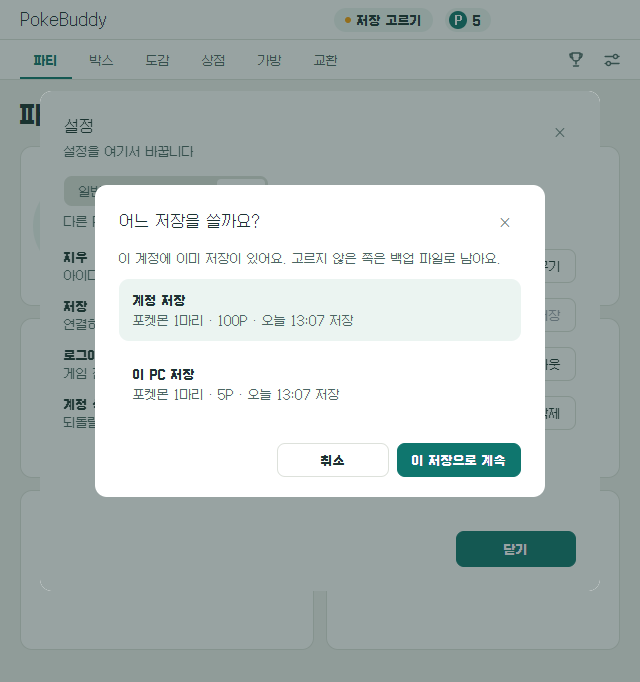
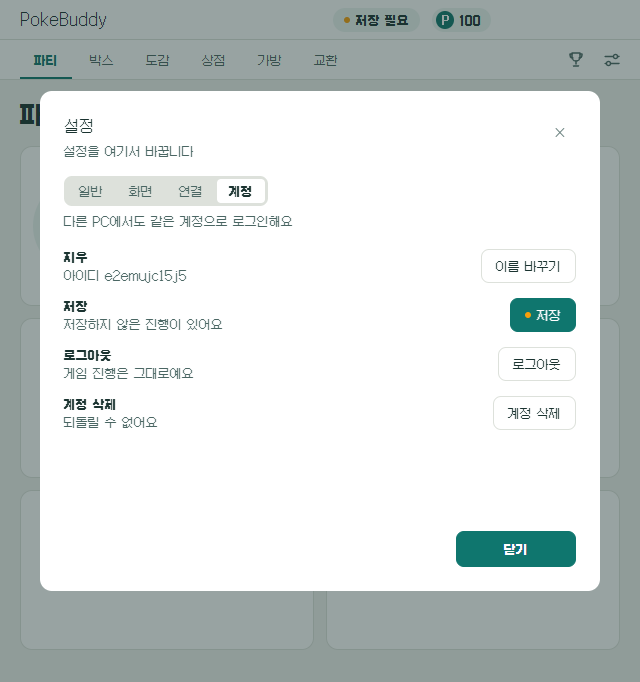
docs: [배포] v0.5.0 릴리스 기록과 최신 E2E 화면

diff --git a/docs/progress.md b/docs/progress.md
@@ -1,7 +1,7 @@
 # 현재 작업 현황
 
 갱신: 2026-09-27
-현재 구현: S5 새 게임 규칙·설정창 (저장 v3). 놀이공간·육성·상점·알·진화·업적·도감이 v3 로 돈다. Windows 설치 파일을 v0.4.0 까지 공개했다.
+현재 구현: S5 새 게임 규칙·설정창 (저장 v3). 놀이공간·육성·상점·알·진화·업적·도감이 v3 로 돈다. Windows 설치 파일을 v0.5.0 까지 공개했다.
 남은 일: 아래 [작업 후보](#작업-후보). 번호의 뜻: [번호 체계](terms.md#번호-체계)
 
 ## 먼저 읽을 문서
@@ -13,7 +13,7 @@
 
 ## 다른 세션에서 재개
 
-2026-09-27 기준: 앱은 저장 v3 로 구현돼 있고 v0.4.0 까지 배포했다. 여러 세션이 같은 작업 폴더에서 동시에 일한다.
+2026-09-27 기준: 앱은 저장 v3 로 구현돼 있고 v0.5.0 까지 배포했다. 여러 세션이 같은 작업 폴더에서 동시에 일한다.
 
 1. 이 문서의 [작업 후보](#작업-후보)에서 진행 중인 항목을 확인한다.
 2. `git status --short` 와 `git log --oneline -10` 으로 다른 세션의 미커밋 변경과 최근 커밋을 확인한다. 남의 미커밋 파일은 그 세션에 물은 뒤 손댄다.
@@ -48,7 +48,7 @@
 | 전체 설계 트리 | 전체 설계·문서 트리를 저장소와 Figma `0.1` 페이지(옛 06)에 작성했다. 2026-09-22 기준 그림이다. | [전체 설계 트리](#전체-설계-트리), [기록](work/s5-design-system-v2/plan.md#전체-설계-트리로-범위-정정) |
 | 화면 글꼴 | 2026-09-26 모든 창의 글꼴을 Galmuri로 바꿨다. 카드 선택 막대를 뺐다. Figma 페이지를 문서 `0.1`·`0.2`, `00`~`05`, 시안 `99`로 정리했다. | [화면 도트 스타일](work/ui-pixel-style/record.md) |
 | 문서 운영 | 현재 기준과 작업 기록을 분리했다. 작성 검수를 작업 절차에 추가했다. | [구조 정리](work/docs-organization/record.md) |
-| S6 배포 | 진행 중이다. 2026-09-26 v0.3.0, 2026-09-27 v0.3.1·v0.4.0(친구 교환) Windows 설치 파일을 GitHub Release 로 공개했다. 코드 서명과 mac 은 대기다. | [작업 후보 10](#작업-후보), 아래 플랫폼 확인 목록 |
+| S6 배포 | 진행 중이다. 2026-09-26 v0.3.0, 2026-09-27 v0.3.1·v0.4.0(친구 교환)·v0.5.0(계정·클라우드 저장) Windows 설치 파일을 GitHub Release 로 공개했다. 코드 서명과 mac 은 대기다. | [작업 후보 10](#작업-후보), 아래 플랫폼 확인 목록 |
 
 과거 검사 결과와 이번 재검수 결과는 각 기록에서 구분한다. 현재 창·명령 사용 방법은 [설명서](guide.md)를 따른다.
 마리별 크기는 저장한다. `pet.set size=3` 명령과 설정창 개체 상세의 크기 단추로 크기 단계 1~5 를 바꾼다(2026-09-25 구현, 2026-09-27 단계 변경 — [소리 크기와 그림 크기 단계](work/sound-size/record.md)).
@@ -92,7 +92,7 @@
 ## 전체 설계 트리
 
 2026-09-22 기준 프로젝트 전체 설계의 요약이다. 위 다음 행동 표를 설계 영역별로 펼친 그림이다. Figma 사본은 [0.1 · 전체 설계·문서 트리](https://www.figma.com/design/MA3K41Y6omAi5mRu6YDFly/pokebuddy?node-id=236-121) 페이지에 있다. 2026-09-26에 페이지 이름을 `06`에서 `0.1`로 바꿨다. 그림과 기준 문서가 다르면 [현재 설계](design.md)와 이 문서의 표를 따른다.
-이 트리를 그린 2026-09-22 당시 구현은 S4였다. 지금 상태는 이 문서 머리말을 따른다. S6 배포는 진행 중이다(v0.4.0). 초록은 사용자가 확정한 규칙이다. 노랑은 열린 결정이다. 회색은 사용자가 보류한 항목이다. 보라는 향후 확장이다.
+이 트리를 그린 2026-09-22 당시 구현은 S4였다. 지금 상태는 이 문서 머리말을 따른다. S6 배포는 진행 중이다(v0.5.0). 초록은 사용자가 확정한 규칙이다. 노랑은 열린 결정이다. 회색은 사용자가 보류한 항목이다. 보라는 향후 확장이다.
 
 ```mermaid
 flowchart LR

diff --git a/docs/history/2026-09.md b/docs/history/2026-09.md
@@ -2,6 +2,12 @@
 
 2026-09-21부터 기록 절차는 [문서 작업 절차](../contributing/workflow.md)를 따른다. 아래의 이전 절차 설명은 당시 기록이다.
 
+## 2026-09-27 — v0.5.0 공개
+
+- 범위: Windows 설치 파일 네 번째 공개. 계정과 클라우드 저장이 처음 들어갔다.
+- 결과: GitHub Release `v0.5.0`(태그 → `e3597e0`)에 `pokebuddy-Setup-0.5.0.exe`(107.6MB)를 올렸다.
+- 검수: 올리기 전 `npm run selftest`·`e2e-trade`(18)·`e2e-account`(9) 통과, 커밋 그대로의 임시 worktree 빌드, 포켓몬 그림 미포함, 임시 HOME 첫 실행에서 그림 받기. 기록은 [S5 게임 런타임 구현 기록](../work/game-runtime/record.md#공개-릴리스-준비--그림-미리-받기와-창-높이)에 있다.
+
 ## 2026-09-27 — v0.4.0 공개
 
 - 범위: Windows 설치 파일 세 번째 공개. 친구 교환이 처음 들어갔다.

diff --git a/docs/terms.md b/docs/terms.md
@@ -29,7 +29,7 @@
 | S3 | 육성(옛 규칙) — 성격·배고픔·기분·친밀도·토큰 | 완료. S5 규칙으로 바뀌었다 |
 | S4 | 옛 상점·진화 — 해금·파티 칸·먹이·진화·모습 선택 | 완료. S5 규칙으로 바뀌었다 |
 | S5 | 새 게임 규칙·설정창 — 개체·박스·알·가방·도감·업적과 설정창 | 구현 중 |
-| S6 | 배포 — 패키징·게시·자동 시작 | 진행 중. 2026-09-26 v0.3.0, 2026-09-27 v0.3.1·v0.4.0 을 GitHub Release 로 공개했다 |
+| S6 | 배포 — 패키징·게시·자동 시작 | 진행 중. 2026-09-26 v0.3.0, 2026-09-27 v0.3.1·v0.4.0·v0.5.0 을 GitHub Release 로 공개했다 |
 
 S5 의 처음 이름은 "설정창·메뉴·연결"이었다. 게임 규칙 재설계로 범위가 넓어졌다. 계약 파일 이름 `specs/s5.md` 는 그대로 둔다.
 
